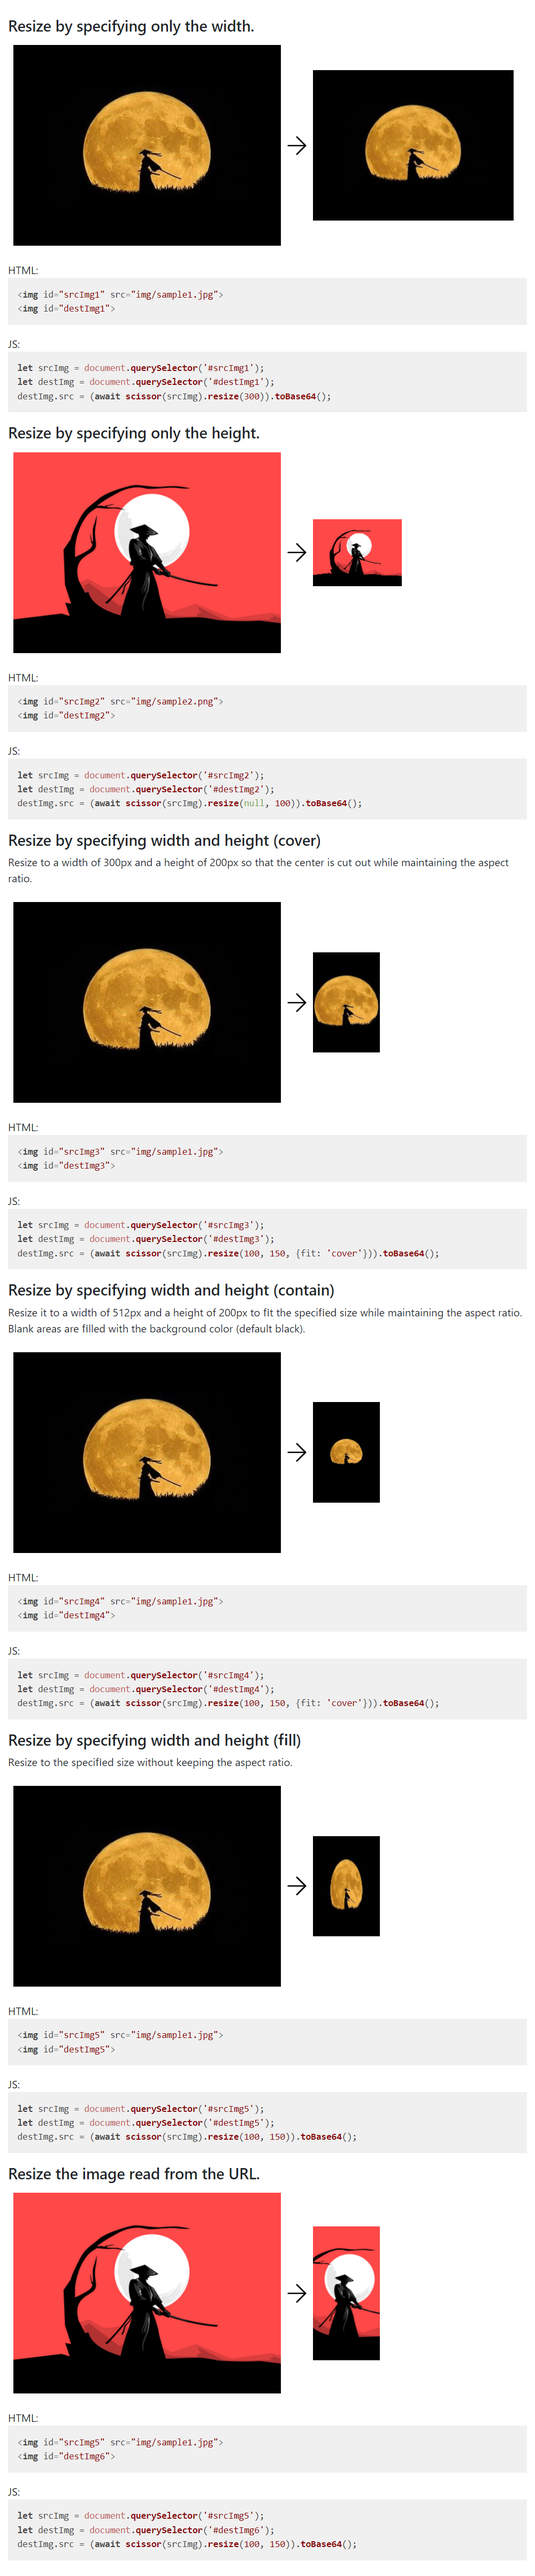
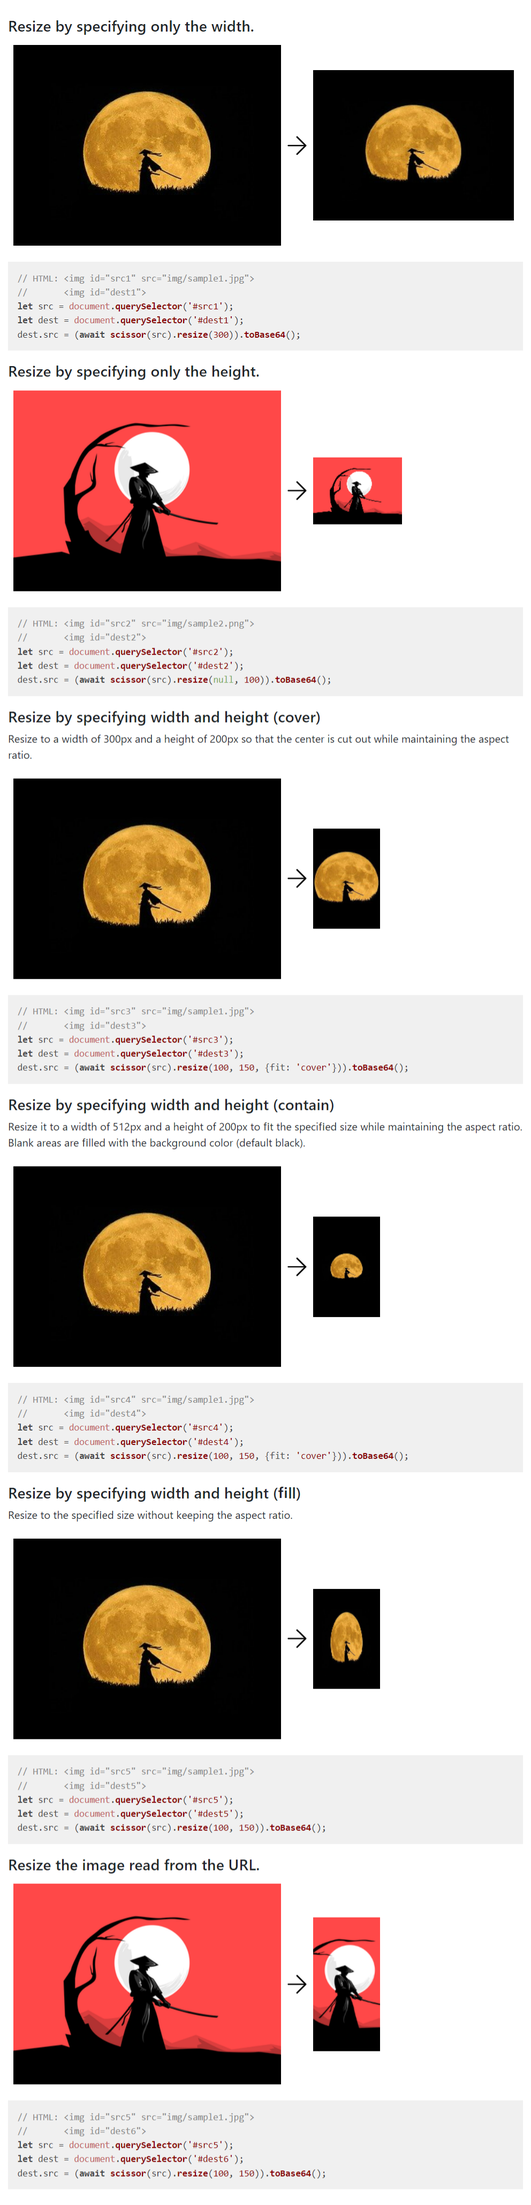
Fixed example screencap.

diff --git a/examples/index.html b/examples/index.html
@@ -16,86 +16,84 @@
 </head>
 <body>
   <div class="container-xxl my-4">
-
-    <h1>Example of using js-scissor</h1>
-
+    <!-- <h1>Example of using js-scissor</h1> -->
     <h4>Resize by specifying only the width.</h4>
     <div class="d-flex flex-row align-items-center mb-3">
-      <img id="srcImg1" src="img/sample1.jpg" class="m-2">
+      <img id="src1" src="img/sample1.jpg" class="m-2">
       <img src="img/allow-right.svg">
-      <img id="destImg1" class="m-2">
+      <img id="dest1" class="m-2">
     </div>
-    HTML:<pre><code class="language-html">&lt;img id=&quot;srcImg1&quot; src=&quot;img/sample1.jpg&quot;&gt;
-&lt;img id=&quot;destImg1&quot;&gt;</code></pre>
-    JS:<pre><code class="language-javascript">let srcImg = document.querySelector(&#039;#srcImg1&#039;);
-let destImg = document.querySelector(&#039;#destImg1&#039;);
-destImg.src = (await scissor(srcImg).resize(300)).toBase64();</code></pre>
+    <pre><code class="language-javascript">// HTML: &lt;img id=&quot;src1&quot; src=&quot;img/sample1.jpg&quot;&gt;
+//       &lt;img id=&quot;dest1&quot;&gt;
+let src = document.querySelector(&#039;#src1&#039;);
+let dest = document.querySelector(&#039;#dest1&#039;);
+dest.src = (await scissor(src).resize(300)).toBase64();</code></pre>
 
     <h4 class="mt-3">Resize by specifying only the height.</h4>
     <div class="d-flex flex-row align-items-center mb-3">
-      <img id="srcImg2" src="img/sample2.png" class="m-2">
+      <img id="src2" src="img/sample2.png" class="m-2">
       <img src="img/allow-right.svg">
-      <img id="destImg2" class="m-2">
+      <img id="dest2" class="m-2">
     </div>
-    HTML:<pre><code class="language-html">&lt;img id=&quot;srcImg2&quot; src=&quot;img/sample2.png&quot;&gt;
-&lt;img id=&quot;destImg2&quot;&gt;</code></pre>
-    JS:<pre><code class="language-javascript">let srcImg = document.querySelector(&#039;#srcImg2&#039;);
-let destImg = document.querySelector(&#039;#destImg2&#039;);
-destImg.src = (await scissor(srcImg).resize(null, 100)).toBase64();</code></pre>
+    <pre><code class="language-javascript">// HTML: &lt;img id=&quot;src2&quot; src=&quot;img/sample2.png&quot;&gt;
+//       &lt;img id=&quot;dest2&quot;&gt;
+let src = document.querySelector(&#039;#src2&#039;);
+let dest = document.querySelector(&#039;#dest2&#039;);
+dest.src = (await scissor(src).resize(null, 100)).toBase64();</code></pre>
 
     <h4 class="mt-3">Resize by specifying width and height (cover)</h4>
     <p>Resize to a width of 300px and a height of 200px so that the center is cut out while maintaining the aspect ratio.</p>
     <div class="d-flex flex-row align-items-center mb-3">
-      <img id="srcImg3" src="img/sample1.jpg" class="m-2">
+      <img id="src3" src="img/sample1.jpg" class="m-2">
       <img src="img/allow-right.svg">
-      <img id="destImg3" class="m-2">
+      <img id="dest3" class="m-2">
     </div>
-    HTML:<pre><code class="language-html">&lt;img id=&quot;srcImg3&quot; src=&quot;img/sample1.jpg&quot;&gt;
-&lt;img id=&quot;destImg3&quot;&gt;</code></pre>
-    JS:<pre><code class="language-javascript">let srcImg = document.querySelector(&#039;#srcImg3&#039;);
-let destImg = document.querySelector(&#039;#destImg3&#039;);
-destImg.src = (await scissor(srcImg).resize(100, 150, {fit: &#039;cover&#039;})).toBase64();
+    <pre><code class="language-javascript">// HTML: &lt;img id=&quot;src3&quot; src=&quot;img/sample1.jpg&quot;&gt;
+//       &lt;img id=&quot;dest3&quot;&gt;
+let src = document.querySelector(&#039;#src3&#039;);
+let dest = document.querySelector(&#039;#dest3&#039;);
+dest.src = (await scissor(src).resize(100, 150, {fit: &#039;cover&#039;})).toBase64();
 </code></pre>
 
     <h4 class="mt-3">Resize by specifying width and height (contain)</h4>
     <p>Resize it to a width of 512px and a height of 200px to fit the specified size while maintaining the aspect ratio.<br>Blank areas are filled with the background color (default black).</p>
     <div class="d-flex flex-row align-items-center mb-3">
-      <img id="srcImg4" src="img/sample1.jpg" class="m-2">
+      <img id="src4" src="img/sample1.jpg" class="m-2">
       <img src="img/allow-right.svg">
-      <img id="destImg4" class="m-2">
+      <img id="dest4" class="m-2">
     </div>
-    HTML:<pre><code class="language-html">&lt;img id=&quot;srcImg4&quot; src=&quot;img/sample1.jpg&quot;&gt;
-&lt;img id=&quot;destImg4&quot;&gt;</code></pre>
-    JS:<pre><code class="language-javascript">let srcImg = document.querySelector(&#039;#srcImg4&#039;);
-let destImg = document.querySelector(&#039;#destImg4&#039;);
-destImg.src = (await scissor(srcImg).resize(100, 150, {fit: &#039;cover&#039;})).toBase64();
+    <pre><code class="language-javascript">// HTML: &lt;img id=&quot;src4&quot; src=&quot;img/sample1.jpg&quot;&gt;
+//       &lt;img id=&quot;dest4&quot;&gt;
+let src = document.querySelector(&#039;#src4&#039;);
+let dest = document.querySelector(&#039;#dest4&#039;);
+dest.src = (await scissor(src).resize(100, 150, {fit: &#039;cover&#039;})).toBase64();
 </code></pre>
 
     <h4 class="mt-3">Resize by specifying width and height (fill)</h4>
     <p>Resize to the specified size without keeping the aspect ratio.</p>
     <div class="d-flex flex-row align-items-center mb-3">
-      <img id="srcImg5" src="img/sample1.jpg" class="m-2">
+      <img id="src5" src="img/sample1.jpg" class="m-2">
       <img src="img/allow-right.svg">
-      <img id="destImg5" class="m-2">
+      <img id="dest5" class="m-2">
     </div>
-    HTML:<pre><code class="language-html">&lt;img id=&quot;srcImg5&quot; src=&quot;img/sample1.jpg&quot;&gt;
-&lt;img id=&quot;destImg5&quot;&gt;</code></pre>
-    JS:<pre><code class="language-javascript">let srcImg = document.querySelector(&#039;#srcImg5&#039;);
-let destImg = document.querySelector(&#039;#destImg5&#039;);
-destImg.src = (await scissor(srcImg).resize(100, 150)).toBase64();
+    <pre><code class="language-javascript">// HTML: &lt;img id=&quot;src5&quot; src=&quot;img/sample1.jpg&quot;&gt;
+//       &lt;img id=&quot;dest5&quot;&gt;
+let src = document.querySelector(&#039;#src5&#039;);
+let dest = document.querySelector(&#039;#dest5&#039;);
+dest.src = (await scissor(src).resize(100, 150)).toBase64();
 </code></pre>
 
     <h4 class="mt-3">Resize the image read from the URL.</h4>
     <div class="d-flex flex-row align-items-center mb-3">
       <img src="img/sample2.png" class="m-2">
       <img src="img/allow-right.svg">
-      <img id="destImg6" class="m-2">
+      <img id="dest6" class="m-2">
     </div>
-    HTML:<pre><code class="language-html">&lt;img id=&quot;srcImg5&quot; src=&quot;img/sample1.jpg&quot;&gt;
-&lt;img id=&quot;destImg6&quot;&gt;</code></pre>
-    JS:<pre><code class="language-javascript">let srcImg = document.querySelector(&#039;#srcImg5&#039;);
-let destImg = document.querySelector(&#039;#destImg6&#039;);
-destImg.src = (await scissor(srcImg).resize(100, 150)).toBase64();
+    <pre><code class="language-javascript">// HTML: &lt;img id=&quot;src5&quot; src=&quot;img/sample1.jpg&quot;&gt;
+//       &lt;img id=&quot;dest6&quot;&gt;
+let src = document.querySelector(&#039;#src5&#039;);
+let dest = document.querySelector(&#039;#dest6&#039;);
+dest.src = (await scissor(src).resize(100, 150)).toBase64();
 </code></pre>
 </div>
 

diff --git a/examples/dist/app.js b/examples/dist/app.js
@@ -49308,23 +49308,23 @@
   // src/app.js
   (async () => {
     es_default.highlightAll();
-    let srcImg = document.querySelector("#srcImg1");
-    let destImg = document.querySelector("#destImg1");
-    destImg.src = (await (0, import_js_scissor.default)(srcImg).resize(300)).toBase64();
-    srcImg = document.querySelector("#srcImg2");
-    destImg = document.querySelector("#destImg2");
-    destImg.src = (await (0, import_js_scissor.default)(srcImg).resize(null, 100)).toBase64();
-    srcImg = document.querySelector("#srcImg3");
-    destImg = document.querySelector("#destImg3");
-    destImg.src = (await (0, import_js_scissor.default)(srcImg).resize(100, 150, { fit: "cover" })).toBase64();
-    srcImg = document.querySelector("#srcImg4");
-    destImg = document.querySelector("#destImg4");
-    destImg.src = (await (0, import_js_scissor.default)(srcImg).resize(100, 150, { fit: "contain" })).toBase64();
-    srcImg = document.querySelector("#srcImg5");
-    destImg = document.querySelector("#destImg5");
-    destImg.src = (await (0, import_js_scissor.default)(srcImg).resize(100, 150)).toBase64();
-    destImg = document.querySelector("#destImg6");
-    destImg.src = (await (0, import_js_scissor.default)("img/sample2.png").resize(100, 200, { fit: "cover" })).toBase64();
+    let src = document.querySelector("#src1");
+    let dest = document.querySelector("#dest1");
+    dest.src = (await (0, import_js_scissor.default)(src).resize(300)).toBase64();
+    src = document.querySelector("#src2");
+    dest = document.querySelector("#dest2");
+    dest.src = (await (0, import_js_scissor.default)(src).resize(null, 100)).toBase64();
+    src = document.querySelector("#src3");
+    dest = document.querySelector("#dest3");
+    dest.src = (await (0, import_js_scissor.default)(src).resize(100, 150, { fit: "cover" })).toBase64();
+    src = document.querySelector("#src4");
+    dest = document.querySelector("#dest4");
+    dest.src = (await (0, import_js_scissor.default)(src).resize(100, 150, { fit: "contain" })).toBase64();
+    src = document.querySelector("#src5");
+    dest = document.querySelector("#dest5");
+    dest.src = (await (0, import_js_scissor.default)(src).resize(100, 150)).toBase64();
+    dest = document.querySelector("#dest6");
+    dest.src = (await (0, import_js_scissor.default)("img/sample2.png").resize(100, 200, { fit: "cover" })).toBase64();
   })();
 })();
 /**!

diff --git a/examples/src/app.js b/examples/src/app.js
@@ -7,31 +7,31 @@ import hljs from 'highlight.js';
   hljs.highlightAll();
 
   // Resize by specifying only the width.
-  let srcImg = document.querySelector('#srcImg1');
-  let destImg = document.querySelector('#destImg1');
-  destImg.src = (await scissor(srcImg).resize(300)).toBase64();
+  let src = document.querySelector('#src1');
+  let dest = document.querySelector('#dest1');
+  dest.src = (await scissor(src).resize(300)).toBase64();
 
   // Resize by specifying only the height.
-  srcImg = document.querySelector('#srcImg2');
-  destImg = document.querySelector('#destImg2');
-  destImg.src = (await scissor(srcImg).resize(null, 100)).toBase64();
+  src = document.querySelector('#src2');
+  dest = document.querySelector('#dest2');
+  dest.src = (await scissor(src).resize(null, 100)).toBase64();
 
   // Resize by specifying width and height (cover)
-  srcImg = document.querySelector('#srcImg3');
-  destImg = document.querySelector('#destImg3');
-  destImg.src = (await scissor(srcImg).resize(100, 150, {fit: 'cover'})).toBase64();
+  src = document.querySelector('#src3');
+  dest = document.querySelector('#dest3');
+  dest.src = (await scissor(src).resize(100, 150, {fit: 'cover'})).toBase64();
 
   // Resize by specifying width and height (contain)
-  srcImg = document.querySelector('#srcImg4');
-  destImg = document.querySelector('#destImg4');
-  destImg.src = (await scissor(srcImg).resize(100, 150, {fit: 'contain'})).toBase64();
+  src = document.querySelector('#src4');
+  dest = document.querySelector('#dest4');
+  dest.src = (await scissor(src).resize(100, 150, {fit: 'contain'})).toBase64();
 
   // Resize by specifying width and height (fill)
-  srcImg = document.querySelector('#srcImg5');
-  destImg = document.querySelector('#destImg5');
-  destImg.src = (await scissor(srcImg).resize(100, 150)).toBase64();
+  src = document.querySelector('#src5');
+  dest = document.querySelector('#dest5');
+  dest.src = (await scissor(src).resize(100, 150)).toBase64();
 
   // Resize the image read from the URL.
-  destImg = document.querySelector('#destImg6');
-  destImg.src = (await scissor('img/sample2.png').resize(100, 200, {fit: 'cover'})).toBase64();
+  dest = document.querySelector('#dest6');
+  dest.src = (await scissor('img/sample2.png').resize(100, 200, {fit: 'cover'})).toBase64();
 })();

diff --git a/docs/index.html b/docs/index.html
@@ -121,13 +121,19 @@
 
     <!--begin::Browser usage-->
     <h1 id="browser-usage">Browser usage</h1>
-    <p>See how to use <a href="https://github.com/takuya-motoshima/js-scissor/tree/main/examples" target="_blank">js-scissor in the browser</a>.</p>
+    <p>
+      See how to use <a href="https://github.com/takuya-motoshima/js-scissor/tree/master/examples" target="_blank">js-scissor in the browser</a>.<br>
+      Running this example will bring up a page similar to the following:
+    </p>
+    <img src="https://raw.githubusercontent.com/takuya-motoshima/js-scissor/master/examples/screencap.png" class="img-fluid" style="width: 400px;">
     <!--end::Browser usage-->
 
     <!--begin::Usage-->
     <h1 id="usage">Usage</h1>
-    <p>Exporting "js-scissor" will return an extended "Handlebars" with built-in helpers and more.</p>
-    <pre><code class="bash">import scissor from 'js-scissor';</code></pre>
+    <p>Resize by specifying only the width.</p>
+    <pre><code class="html"></code></pre>
+
+    <pre><code class="js"></code></pre>
     <!--end::Usage-->
 
     <!--begin::Comparison helper-->

diff --git a/docs/styles/docs.css b/docs/styles/docs.css
@@ -6,7 +6,7 @@
 
 .topnav {
   padding: .75rem 0;
-  background-color: #75aaf4;
+  background-color: #ff4848;
 }
 
   .topnav .navbar-toggler {
